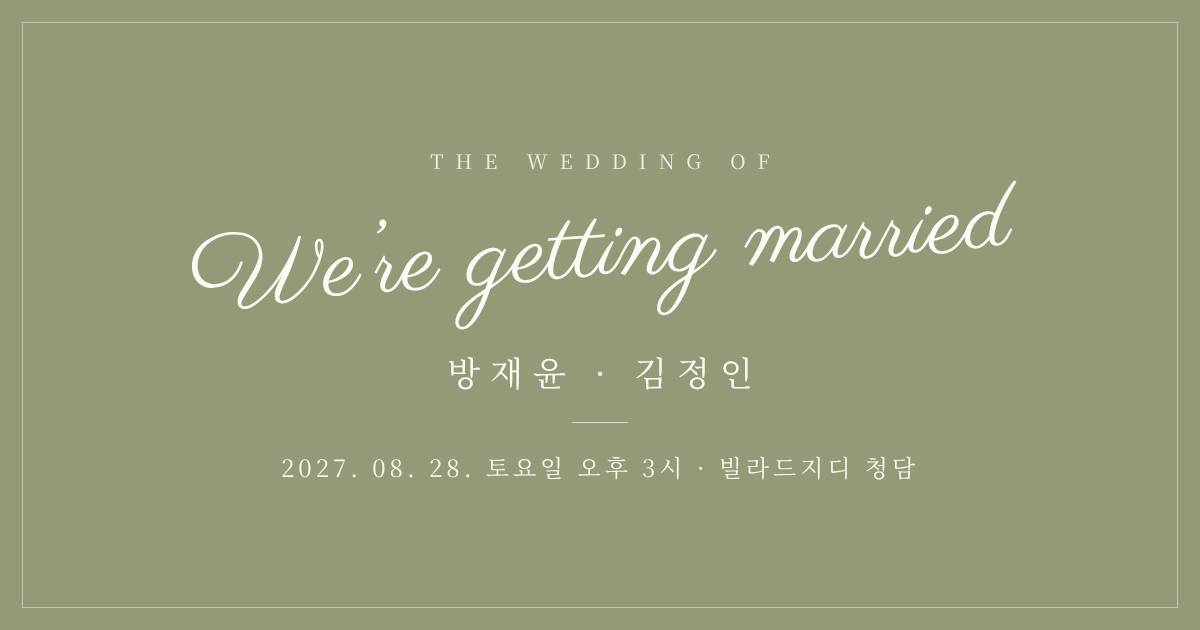
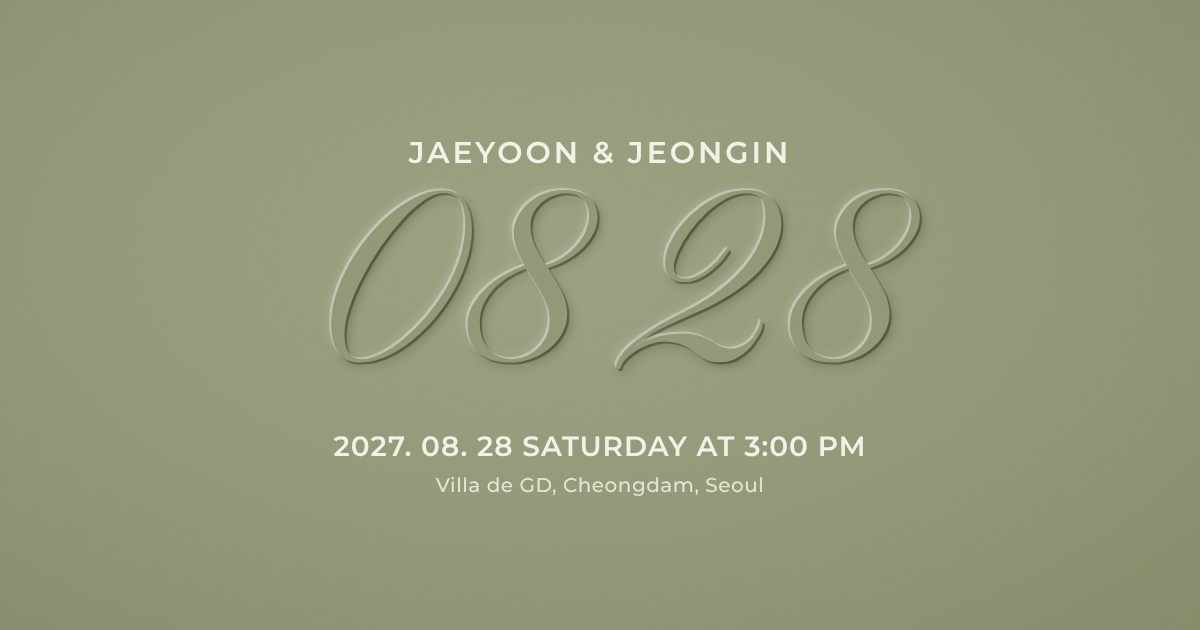
카톡 썸네일: 올리브 엠보싱 0828
Claude-Session: https://claude.ai/code/session_014x3DoSBryz5Xt6sjpw67QT

diff --git a/index.html b/index.html
@@ -8,7 +8,7 @@
 <meta property="og:type" content="website">
 <meta property="og:title" content="방재윤 ♥ 김정인 결혼합니다">
 <meta property="og:description" content="2027년 8월 28일 토요일 오후 3시, 빌라드지디 청담">
-<meta property="og:image" content="https://jaeyun-jeongin.github.io/og.png?v=3">
+<meta property="og:image" content="https://jaeyun-jeongin.github.io/og.png?v=4">
 <meta property="og:image:width" content="1200">
 <meta property="og:image:height" content="630">
 <meta property="og:url" content="https://jaeyun-jeongin.github.io/">
